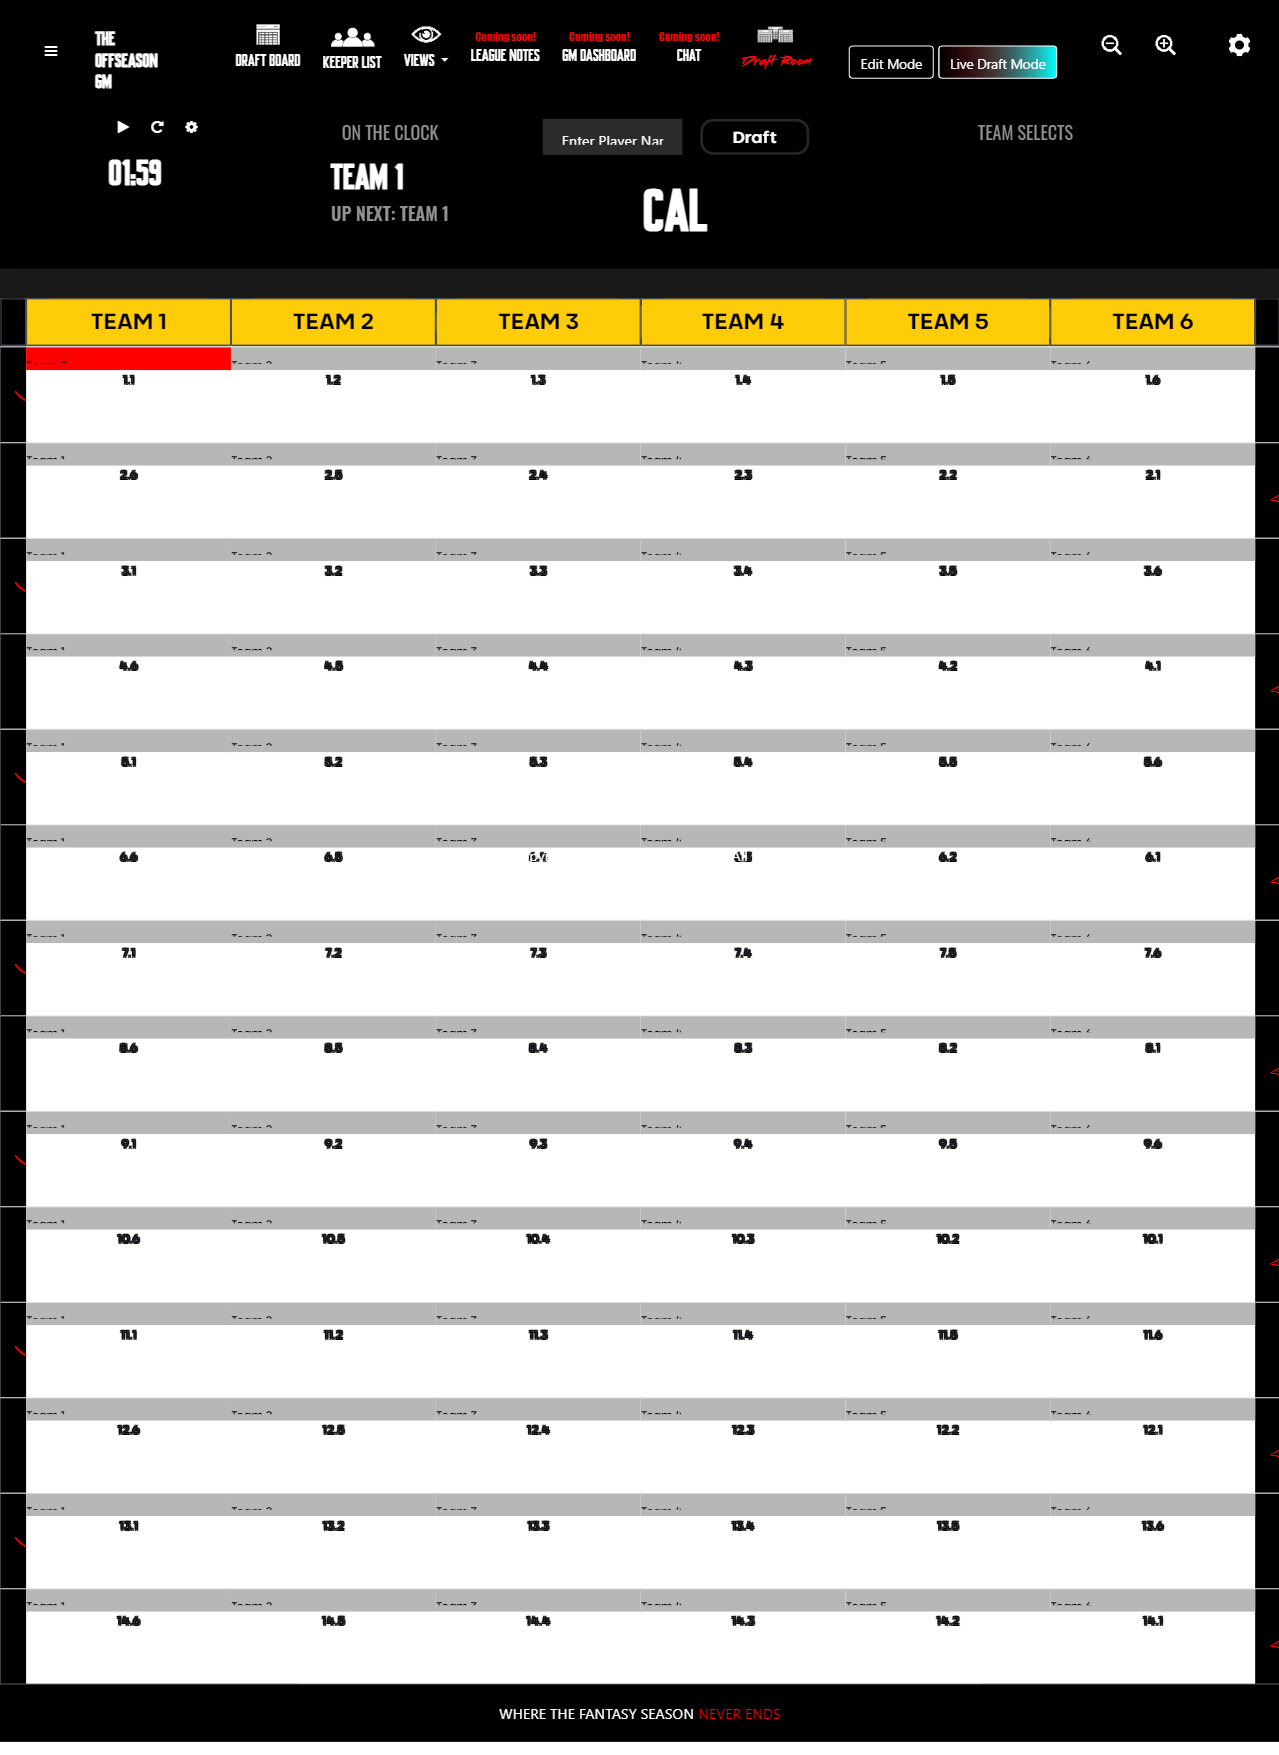
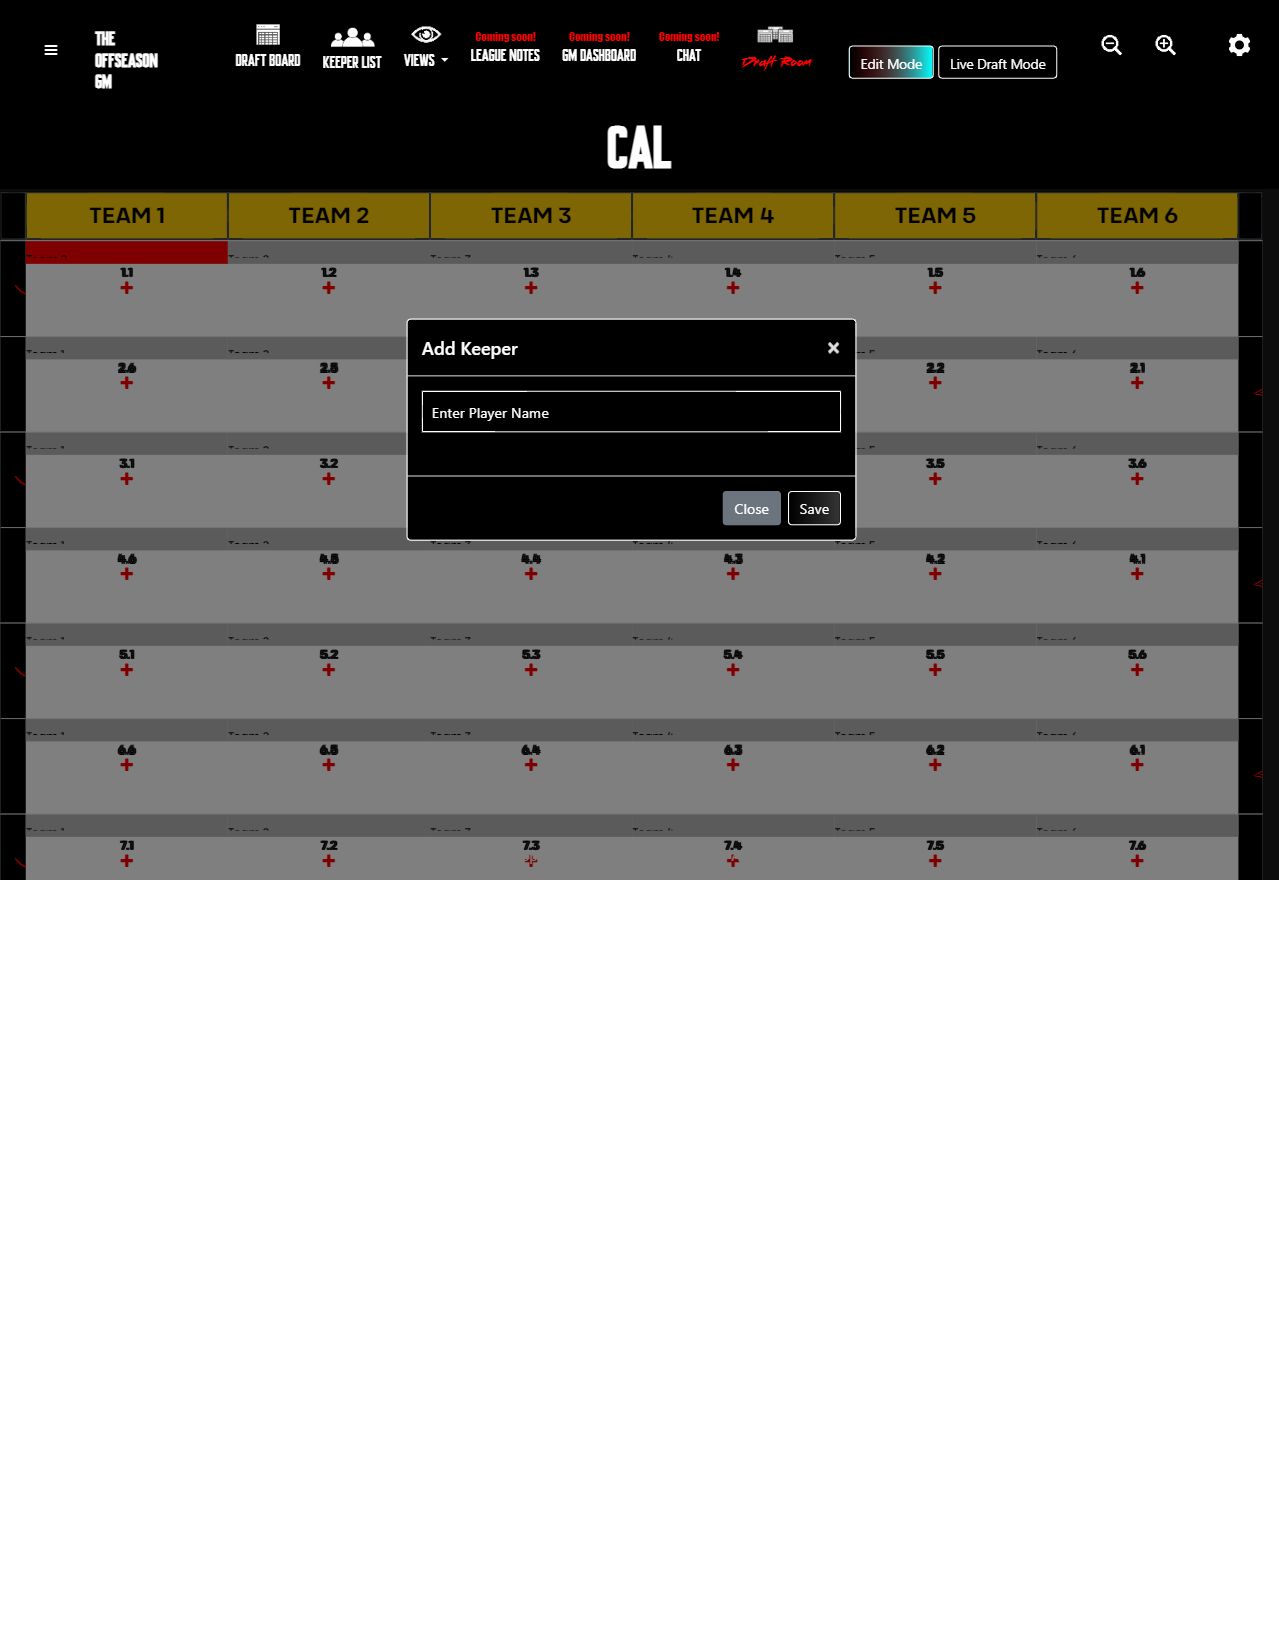
no space available on roster message are show

diff --git a/public/js/league/draft.js b/public/js/league/draft.js
@@ -387,7 +387,7 @@ function savePick(playerId, roundId = 0, type = "draft") {
             success: function (response) {
                 console.log(response);
                 if (response.status == 200) {
-                    successMessage(response.message);
+                    toastr.success(response.message);
                     $(".select2Drp").select2("val", "");
                     $(".select2Drp option[value='" + playerId + "']").remove();
                     // var team_name = $("td[data-round_id='"+response.data.round_id+"']").children()[0].textContent;

diff --git a/resources/views/league/draft.blade.php b/resources/views/league/draft.blade.php
@@ -1099,8 +1099,8 @@ top: 6px;" />
         <div class="modal-dialog" role="document">
             <div class="modal-content">
                 <div class="modal-header">
-                    <h5 class="modal-title" id="exampleModalLabel">Add Keeper</h5>
-                    <button type="button" class="close" data-dismiss="modal" aria-label="Close">
+                    <h5 class="modal-title" id="exampleModalLabel" style="color:white">Add Keeper</h5>
+                    <button type="button" class="close text-white" data-dismiss="modal" aria-label="Close">
                         <span aria-hidden="true">&times;</span>
                     </button>
                 </div>
@@ -1120,7 +1120,7 @@ top: 6px;" />
                                                 </select> -->
                     
                                                 <input id="myInput2" type="text" name="myCountry" autocomplete="off"
-                                                    style="color:#fff;" placeholder="Enter Player Name">
+                                                    style="color:#fff;background: black !important;border:1px solid" placeholder="Enter Player Name">
                                             </div>
                                         </div>
                                     </li>
